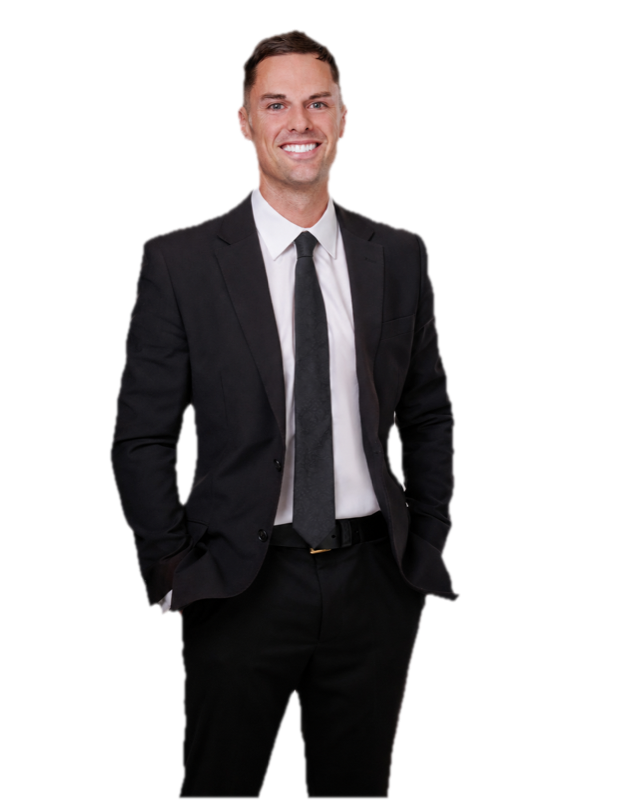
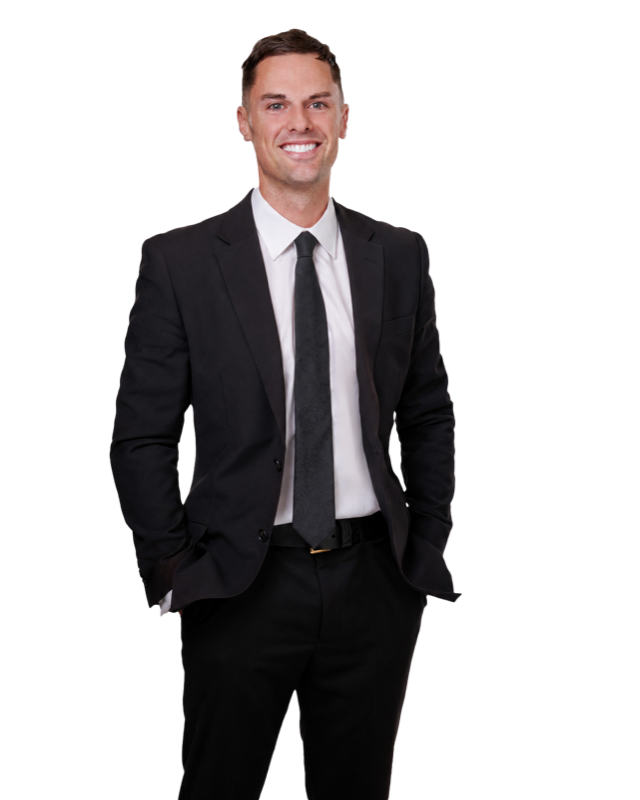
Use Ben's cleaner cutout and fit the first screen to the viewport
- Swap in the supplied mask: crisper jacket and shoulder edges, WebP down to 51KB
- Hero and the stats strip now share one viewport below the sticky header, so the
  38 years / Three suburbs / Harcourts row is no longer cut off
- Hero type, spacing and the stats strip scale with viewport height; verified fitting
  from 673px inner height upward

diff --git a/assets/site.css b/assets/site.css
@@ -7,6 +7,7 @@
 @font-face{font-family:"Poppins";font-weight:600;font-style:normal;font-display:swap;src:url(fonts/poppins-600.woff2) format("woff2")}
 
   :root{
+    --headerH:84px;
     --shell:#F5F3EF;
     --stone:#EBE8E2;
     --white:#FFFFFF;
@@ -75,7 +76,7 @@
 
   /* Header */
   .header{position:sticky; top:0; z-index:40; background:rgba(245,243,239,.92); backdrop-filter:blur(14px); -webkit-backdrop-filter:blur(14px); border-bottom:1px solid rgba(23,24,27,.1); --fg:#17181B; --fg-2:#4B4D53; --mute:#7C7A76; --rule:rgba(23,24,27,.12); --rule-2:rgba(23,24,27,.28); --accent:var(--blue); --bg:var(--shell); color:var(--fg)}
-  .header .wrap{display:flex; align-items:center; justify-content:space-between; gap:28px; height:84px}
+  .header .wrap{display:flex; align-items:center; justify-content:space-between; gap:28px; height:var(--headerH)}
   .wordmark{font-family:var(--display); font-weight:600; font-size:1.1rem; letter-spacing:.14em; text-transform:uppercase; text-decoration:none; line-height:1}
   .nav{display:flex; gap:34px}
   .nav a{font-family:var(--sans); font-size:.8rem; font-weight:400; text-decoration:none; color:var(--fg-2); padding-bottom:4px; border-bottom:1px solid transparent; transition:color .2s, border-color .2s}
@@ -91,8 +92,15 @@
 
   /* Hero */
   .hero{position:relative; overflow:hidden; background:radial-gradient(78% 88% at 70% 46%, #34353A 0%, #1B1C1F 48%, #0F1012 100%); color:var(--fg)}
-  .hero.full{min-height:100svh; display:flex; align-items:center}
-  .hero.full .wrap{padding-block:clamp(96px, 11vh, 150px) clamp(48px, 7vh, 96px)}
+  /* Hero and the stats strip together fill one viewport, below the sticky header */
+  .first-screen{min-height:calc(100svh - var(--headerH) - 1px); display:flex; flex-direction:column}
+  .first-screen .hero{flex:1 1 auto; display:flex; align-items:center}
+  .first-screen .stats{flex:0 0 auto}
+  .first-screen .hero .wrap{padding-block:clamp(16px, 4.2vh, 104px)}
+  .first-screen .hero-copy{gap:clamp(10px, 2.2vh, 26px)}
+  .first-screen .hero-copy h1{font-size:clamp(2.2rem, min(5.6vw, 7.4vh), 5.2rem)}
+  .first-screen .hero-copy .lede{font-size:clamp(.97rem, 1.7vh, 1.08rem)}
+  .first-screen .hero-actions{margin-top:0}
   .hero .wrap{display:grid; grid-template-columns:minmax(0,1.04fr) minmax(0,.96fr); gap:clamp(28px, 5vw, 80px); align-items:center; padding-block:clamp(56px, 7vw, 104px) clamp(56px, 7vw, 96px); width:100%}
   .hero-copy{display:flex; flex-direction:column; align-items:flex-start; gap:26px}
   .hero-copy h1{max-width:13ch}
@@ -100,6 +108,7 @@
   .hero-actions{display:flex; gap:12px; flex-wrap:wrap}
   .hero-figure{position:relative; margin:0; justify-self:end; width:100%; max-width:560px}
   .hero-glow{position:absolute; inset:0; background:radial-gradient(52% 66% at 70% 58%, rgba(255,255,255,.14), transparent 70%); pointer-events:none}
+  .first-screen .hero-figure img{max-height:min(54vh, 600px); width:auto; margin-inline:auto}
   .hero-figure img{position:relative; width:100%; -webkit-mask-image:linear-gradient(to bottom, #000 82%, transparent 100%); mask-image:linear-gradient(to bottom, #000 82%, transparent 100%)}
   .hero-note{position:absolute; left:var(--gutter); bottom:26px; display:flex; align-items:center; gap:10px; font-size:.6rem; letter-spacing:.22em; text-transform:uppercase; color:var(--mute)}
   .hero-note::before{content:""; width:26px; height:1px; background:var(--rule-2)}
@@ -113,7 +122,7 @@
   /* Stats */
   .stats{background:var(--ink); color:var(--fg); border-top:1px solid var(--rule)}
   .stats .wrap{display:grid; grid-template-columns:repeat(3, minmax(0,1fr))}
-  .stat{padding:38px 40px 40px 0; display:flex; flex-direction:column; gap:10px; border-right:1px solid var(--rule)}
+  .stat{padding:clamp(18px, 3.6vh, 38px) 40px clamp(20px, 3.8vh, 40px) 0; display:flex; flex-direction:column; gap:clamp(4px, 1vh, 10px); border-right:1px solid var(--rule)}
   .stat + .stat{padding-left:40px}
   .stat:last-child{border-right:0}
   .stat b{font-family:var(--display); font-weight:500; font-size:2.3rem; line-height:1; letter-spacing:-.025em}
@@ -267,7 +276,7 @@
     .nav{display:none}
     .header .btn{display:none}
     .menu-btn{display:grid}
-    .header .wrap{height:72px}
+    :root{--headerH:72px}
     .hero-note{display:none}
     .stats .wrap{grid-template-columns:minmax(0,1fr)}
     .stat, .stat + .stat{border-right:0; border-bottom:1px solid var(--rule); padding:24px 0}

diff --git a/src/site.css b/src/site.css
@@ -7,6 +7,7 @@
 @font-face{font-family:"Poppins";font-weight:600;font-style:normal;font-display:swap;src:url(fonts/poppins-600.woff2) format("woff2")}
 
   :root{
+    --headerH:84px;
     --shell:#F5F3EF;
     --stone:#EBE8E2;
     --white:#FFFFFF;
@@ -75,7 +76,7 @@
 
   /* Header */
   .header{position:sticky; top:0; z-index:40; background:rgba(245,243,239,.92); backdrop-filter:blur(14px); -webkit-backdrop-filter:blur(14px); border-bottom:1px solid rgba(23,24,27,.1); --fg:#17181B; --fg-2:#4B4D53; --mute:#7C7A76; --rule:rgba(23,24,27,.12); --rule-2:rgba(23,24,27,.28); --accent:var(--blue); --bg:var(--shell); color:var(--fg)}
-  .header .wrap{display:flex; align-items:center; justify-content:space-between; gap:28px; height:84px}
+  .header .wrap{display:flex; align-items:center; justify-content:space-between; gap:28px; height:var(--headerH)}
   .wordmark{font-family:var(--display); font-weight:600; font-size:1.1rem; letter-spacing:.14em; text-transform:uppercase; text-decoration:none; line-height:1}
   .nav{display:flex; gap:34px}
   .nav a{font-family:var(--sans); font-size:.8rem; font-weight:400; text-decoration:none; color:var(--fg-2); padding-bottom:4px; border-bottom:1px solid transparent; transition:color .2s, border-color .2s}
@@ -91,8 +92,15 @@
 
   /* Hero */
   .hero{position:relative; overflow:hidden; background:radial-gradient(78% 88% at 70% 46%, #34353A 0%, #1B1C1F 48%, #0F1012 100%); color:var(--fg)}
-  .hero.full{min-height:100svh; display:flex; align-items:center}
-  .hero.full .wrap{padding-block:clamp(96px, 11vh, 150px) clamp(48px, 7vh, 96px)}
+  /* Hero and the stats strip together fill one viewport, below the sticky header */
+  .first-screen{min-height:calc(100svh - var(--headerH) - 1px); display:flex; flex-direction:column}
+  .first-screen .hero{flex:1 1 auto; display:flex; align-items:center}
+  .first-screen .stats{flex:0 0 auto}
+  .first-screen .hero .wrap{padding-block:clamp(16px, 4.2vh, 104px)}
+  .first-screen .hero-copy{gap:clamp(10px, 2.2vh, 26px)}
+  .first-screen .hero-copy h1{font-size:clamp(2.2rem, min(5.6vw, 7.4vh), 5.2rem)}
+  .first-screen .hero-copy .lede{font-size:clamp(.97rem, 1.7vh, 1.08rem)}
+  .first-screen .hero-actions{margin-top:0}
   .hero .wrap{display:grid; grid-template-columns:minmax(0,1.04fr) minmax(0,.96fr); gap:clamp(28px, 5vw, 80px); align-items:center; padding-block:clamp(56px, 7vw, 104px) clamp(56px, 7vw, 96px); width:100%}
   .hero-copy{display:flex; flex-direction:column; align-items:flex-start; gap:26px}
   .hero-copy h1{max-width:13ch}
@@ -100,6 +108,7 @@
   .hero-actions{display:flex; gap:12px; flex-wrap:wrap}
   .hero-figure{position:relative; margin:0; justify-self:end; width:100%; max-width:560px}
   .hero-glow{position:absolute; inset:0; background:radial-gradient(52% 66% at 70% 58%, rgba(255,255,255,.14), transparent 70%); pointer-events:none}
+  .first-screen .hero-figure img{max-height:min(54vh, 600px); width:auto; margin-inline:auto}
   .hero-figure img{position:relative; width:100%; -webkit-mask-image:linear-gradient(to bottom, #000 82%, transparent 100%); mask-image:linear-gradient(to bottom, #000 82%, transparent 100%)}
   .hero-note{position:absolute; left:var(--gutter); bottom:26px; display:flex; align-items:center; gap:10px; font-size:.6rem; letter-spacing:.22em; text-transform:uppercase; color:var(--mute)}
   .hero-note::before{content:""; width:26px; height:1px; background:var(--rule-2)}
@@ -113,7 +122,7 @@
   /* Stats */
   .stats{background:var(--ink); color:var(--fg); border-top:1px solid var(--rule)}
   .stats .wrap{display:grid; grid-template-columns:repeat(3, minmax(0,1fr))}
-  .stat{padding:38px 40px 40px 0; display:flex; flex-direction:column; gap:10px; border-right:1px solid var(--rule)}
+  .stat{padding:clamp(18px, 3.6vh, 38px) 40px clamp(20px, 3.8vh, 40px) 0; display:flex; flex-direction:column; gap:clamp(4px, 1vh, 10px); border-right:1px solid var(--rule)}
   .stat + .stat{padding-left:40px}
   .stat:last-child{border-right:0}
   .stat b{font-family:var(--display); font-weight:500; font-size:2.3rem; line-height:1; letter-spacing:-.025em}
@@ -267,7 +276,7 @@
     .nav{display:none}
     .header .btn{display:none}
     .menu-btn{display:grid}
-    .header .wrap{height:72px}
+    :root{--headerH:72px}
     .hero-note{display:none}
     .stats .wrap{grid-template-columns:minmax(0,1fr)}
     .stat, .stat + .stat{border-right:0; border-bottom:1px solid var(--rule); padding:24px 0}

diff --git a/dist/page.html b/dist/page.html
@@ -307,7 +307,8 @@
 </header>
 
 <main>
-  <section class="hero full" aria-labelledby="heroTitle">
+  <div class="first-screen">
+  <section class="hero" aria-labelledby="heroTitle">
     <div class="hero-glow" aria-hidden="true"></div>
     <div class="wrap">
       <div class="hero-copy">
@@ -336,6 +337,7 @@
       <div class="stat"><b>Three suburbs</b><span>Devonport · Belmont · Bayswater</span></div>
       <div class="stat"><b>Harcourts</b><span>Cooper &amp; Co</span></div>
     </div>
+  </div>
   </div>
 
   <section class="section on-light" id="about" aria-labelledby="aboutTitle">

diff --git a/index.html b/index.html
@@ -311,7 +311,8 @@
 </header>
 
 <main>
-  <section class="hero full" aria-labelledby="heroTitle">
+  <div class="first-screen">
+  <section class="hero" aria-labelledby="heroTitle">
     <div class="hero-glow" aria-hidden="true"></div>
     <div class="wrap">
       <div class="hero-copy">
@@ -340,6 +341,7 @@
       <div class="stat"><b>Three suburbs</b><span>Devonport · Belmont · Bayswater</span></div>
       <div class="stat"><b>Harcourts</b><span>Cooper &amp; Co</span></div>
     </div>
+  </div>
   </div>
 
   <section class="section on-light" id="about" aria-labelledby="aboutTitle">

diff --git a/build.py b/build.py
@@ -303,7 +303,8 @@ def home_body():
     return f'''{header(d, 'home')}
 
 <main>
-  <section class="hero full" aria-labelledby="heroTitle">
+  <div class="first-screen">
+  <section class="hero" aria-labelledby="heroTitle">
     <div class="hero-glow" aria-hidden="true"></div>
     <div class="wrap">
       <div class="hero-copy">
@@ -332,6 +333,7 @@ def home_body():
       <div class="stat"><b>Three suburbs</b><span>Devonport · Belmont · Bayswater</span></div>
       <div class="stat"><b>Harcourts</b><span>Cooper &amp; Co</span></div>
     </div>
+  </div>
   </div>
 
   <section class="section on-light" id="about" aria-labelledby="aboutTitle">
